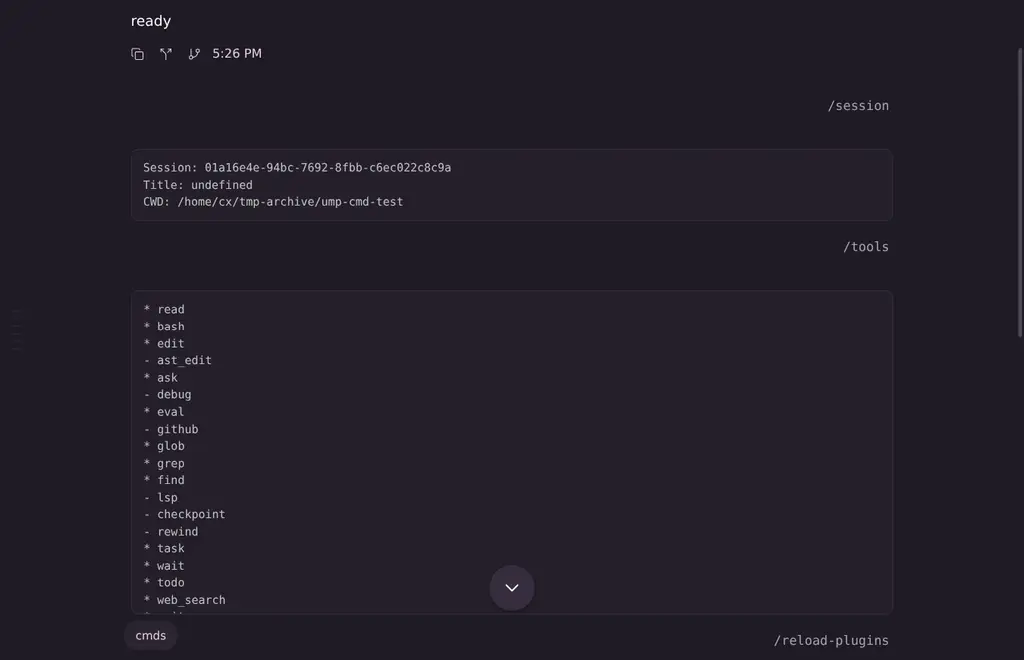
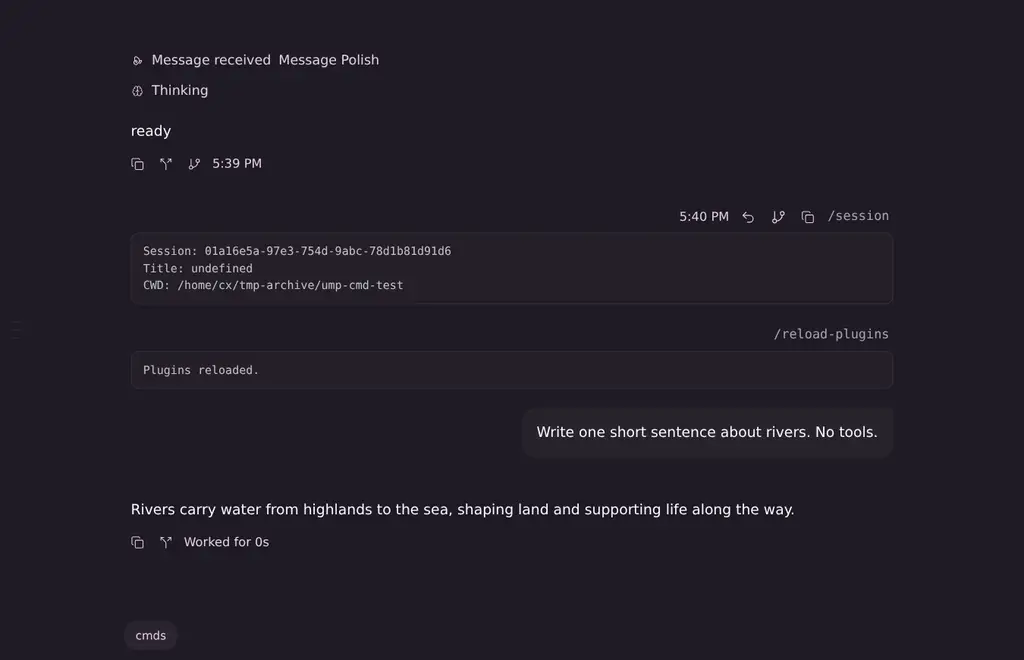
user-message-polish: tighten slash command spacing
The time/rewind/copy row moves onto the command's line, so OMP's answer
sits 4 px under the command instead of below an empty 32 px row.

diff --git a/paseo-plugins/user-message-polish/client/commands.ts b/paseo-plugins/user-message-polish/client/commands.ts
@@ -60,6 +60,7 @@ export function startCommandStyling(): CommandStyler {
   const unmarkBubble = (bubble: HTMLElement) => {
     bubble.removeAttribute("data-ump-cmd");
     bubble.removeAttribute("data-pmono");
+    bubble.parentElement?.removeAttribute("data-ump-cmd-line");
     bubbles.delete(bubble);
   };
 
@@ -72,6 +73,8 @@ export function startCommandStyling(): CommandStyler {
     if (enabled && onlyText && !raw.includes("\n") && isCommand(raw)) {
       bubble.setAttribute("data-ump-cmd", "");
       bubble.setAttribute("data-pmono", "");
+      // The time/rewind/copy row moves onto the command's line instead of a hidden row below it.
+      bubble.parentElement?.setAttribute("data-ump-cmd-line", "");
       bubbles.add(bubble);
     } else if (bubbles.has(bubble)) unmarkBubble(bubble);
     // The answer row may have mounted first.
@@ -200,8 +203,10 @@ const MONO = "ui-monospace, SFMono-Regular, Menlo, Consolas, monospace";
 const CSS = `
 [data-ump-cmd] { background: transparent !important; padding: 2px 4px !important; }
 [data-ump-cmd] > [data-message-text] { font-family: ${MONO} !important; font-size: 13.5px !important; opacity: 0.62; }
+[data-ump-cmd-line] { flex-direction: row-reverse !important; align-items: center !important; gap: 10px; }
+[data-ump-cmd-line] > [data-testid="user-message-trailing-row"] { margin-top: 0 !important; }
 [data-ump-cmd-src], [data-ump-cmd-hide] { display: none !important; }
-.ump-cmd-out { margin: 0 0 16px; padding: 10px 12px; border: 1px solid ${MIX(10)}; border-radius: 8px; background: ${MIX(3)};
+.ump-cmd-out { margin: 4px 0 20px; padding: 10px 12px; border: 1px solid ${MIX(10)}; border-radius: 8px; background: ${MIX(3)};
   font-family: ${MONO}; font-size: 12px; line-height: 18px; white-space: pre-wrap; overflow-wrap: anywhere; opacity: 0.75; user-select: text;
   max-height: 320px; overflow: auto; }
 `;

diff --git a/paseo-plugins/user-message-polish/OVERVIEW.md b/paseo-plugins/user-message-polish/OVERVIEW.md
@@ -43,7 +43,9 @@ without a reload (checked).
 **Slash commands** (Stefan's pick 2026-10-24: "bubble F + answer F" on
 `http://axalon:8080/pages/user-message-polish-command-mocks/`). A one-line message that starts with
 `/name` loses its bubble: just the command, right-aligned, muted, in the code font. Paseo's time,
-rewind and copy row under it stays (copy gives `/session`, checked live). OMP's own answer to a
+rewind and copy row moves onto the command's line, left of it (on hover on desktop, always at narrow
+width), so the answer sits 4 px under the command instead of below an empty 32 px row (copy gives
+`/session`, checked live). OMP's own answer to a
 command (no model ran: `/session`, `/tools`, `/reload-plugins`, …) becomes a muted code block
 without the "Worked for 0s" footer, showing the output exactly as OMP printed it, line breaks and
 list markers included (Paseo's Markdown joins the lines or turns `* bash` into bullets). Longer
@@ -66,7 +68,7 @@ Screenshots (`screenshots/`): `before-mixed.webp` → `after-mixed.webp` / `afte
 `before-nested-long.webp` → `after-nested-long-open.webp` (120-line paste open, nested `<context>`,
 quote, lists, diff fence), `after-stays-raw.png` (inline tags, a fence holding tags, one-line
 blocks), `after-light.webp`, `web-390px.webp`, `settings.webp`, `before-commands.webp` →
-`after-commands.webp` (`/session`, `/tools`).
+`after-commands.webp` (`/session`, `/reload-plugins`, hovered).
 
 Limits:
 
